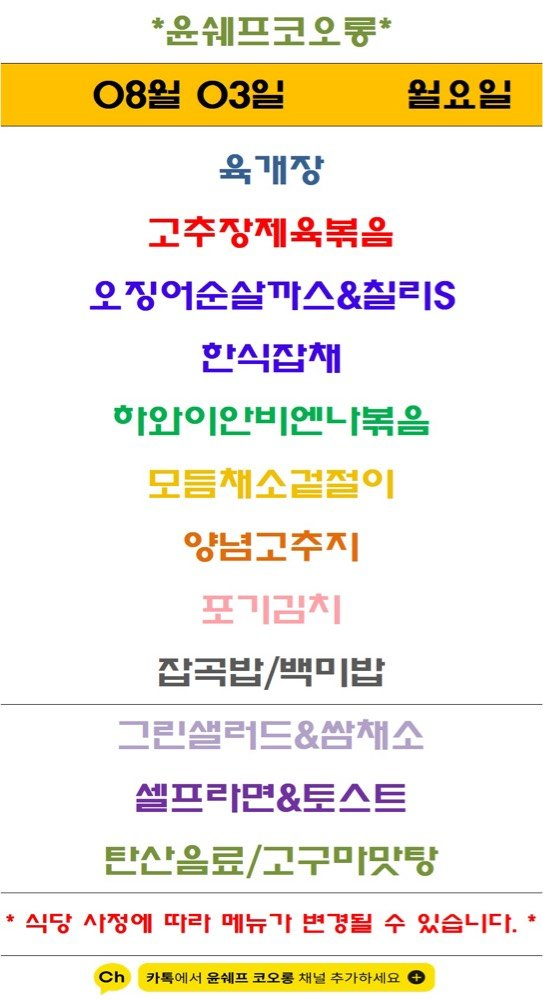
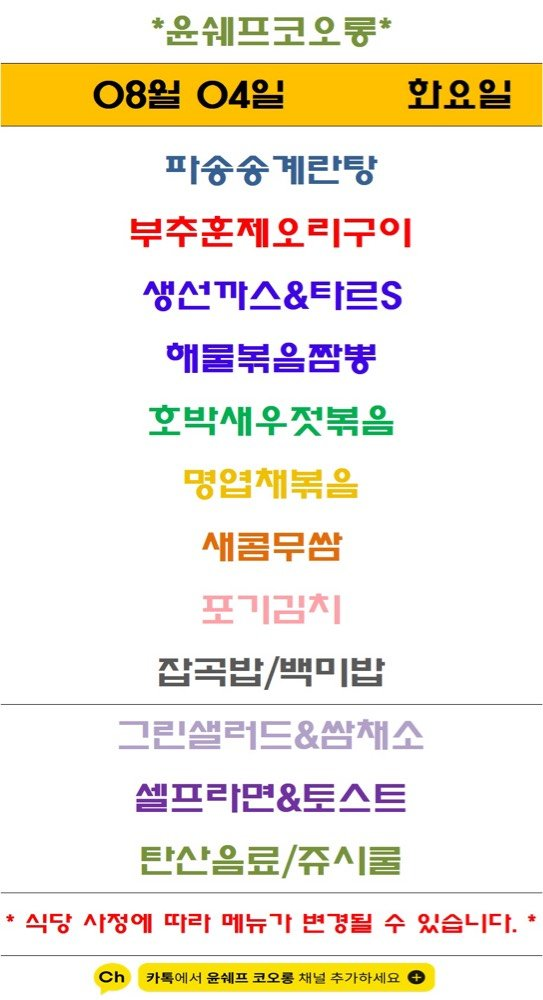
Update menu board assets

diff --git a/menu-today/index.html b/menu-today/index.html
@@ -209,7 +209,7 @@
 
     <section class="meta-bar">
       <div class="meta-card"><div class="meta-label">기준 날짜</div><div class="meta-value">2026년 8월 4일 화요일</div></div>
-      <div class="meta-card"><div class="meta-label">최종 가져온 시간</div><div class="meta-value">2026-08-04 09:03:29</div></div>
+      <div class="meta-card"><div class="meta-label">최종 가져온 시간</div><div class="meta-value">2026-08-04 09:13:03</div></div>
       <div class="meta-card"><div class="meta-label">확인 완료</div><div class="meta-value">9개 식당</div></div>
       <div class="meta-card"><div class="meta-label">준비중</div><div class="meta-value">3개 채널</div></div>
     </section>
@@ -265,7 +265,7 @@
             <div class="sub">가산비즈니스센터</div>
           </div>
         </div>
-        <div class="menu-inline-image"><img src="./images/raonfood.png" alt="구내식당라온푸드 식단 이미지"></div><ul><li>황태해잠국</li><li>단호박닭볶음탐</li><li>생선까스 / 타르타르</li><li>첨포묵김가루무침</li><li>콩나물무침</li><li>방물토마토 &amp; 꿀떡꿀떡</li><li>샐러드 &amp; 드레싱</li><li>황태해장국</li><li>단호</li></ul>
+        <div class="menu-inline-image"><img src="./images/raonfood.png" alt="구내식당라온푸드 식단 이미지"></div><ul><li>황태해잠국</li><li>단호박닭볶음탐</li><li>생선까스 / 타르타르S</li><li>첨포묵김가루무침</li><li>콩나물무침</li><li>방물토마토 &amp; 꿀떡꿀떡</li><li>샐러드 &amp; 드레싱</li><li>황태해장국</li><li>단호</li></ul>
       </article>
 
       <article class="restaurant-card">
@@ -295,7 +295,7 @@
             <div class="sub">에이스테크노타워10차</div>
           </div>
         </div>
-        <div class="menu-inline-image"><img src="./images/thefoodsketch.png" alt="더푸드스케치 식단 이미지"></div><ul><li>근대된장국</li><li>감자전</li><li>골뱅이소면</li><li>= 햄옥수수볶음</li><li>A 유자청연근조림</li><li>Lu 고들빼기</li><li>가든샐러드 / 드레싱</li><li>일배기겉절이 / 음료</li><li>디보으디</li><li>감사선</li></ul>
+        <div class="menu-inline-image"><img src="./images/thefoodsketch.png" alt="더푸드스케치 식단 이미지"></div><ul><li>근대된장국</li><li>감자전</li><li>골뱅이소면</li><li>= 햄옥수수볶음</li><li>A 유자청연근조림</li><li>Lu 고들빼기</li><li>가든샐러드 &amp; 드레싱</li><li>일배기겉절이 / 음료</li><li>디보으디</li><li>감사선</li></ul>
       </article>
 
       <article class="restaurant-card">

diff --git a/guro-menu/index.html b/guro-menu/index.html
@@ -32,7 +32,7 @@
   </header>
   <section class="meta">
     <div><small>기준 날짜</small><strong>2026년 8월 4일 화요일</strong></div>
-    <div><small>최종 갱신</small><strong>2026-08-04 09:03:43</strong></div>
+    <div><small>최종 갱신</small><strong>2026-08-04 09:13:13</strong></div>
     <div><small>등록 식당</small><strong>5개</strong></div>
   </section>
   <div class="notice">공개 카카오 채널의 메뉴 이미지를 자동 수집하고 OCR로 정리합니다. 텍스트에 오타가 있을 수 있으니 식단 이미지를 함께 확인해 주세요.</div>
@@ -104,7 +104,7 @@
         </div>
         <img class="menu-image" src="./images/yoon-chef-kolon.png" alt="윤쉐프 코오롱 식단 이미지" loading="lazy">
         <p class="message">최신 공개 식단 이미지의 텍스트입니다. 날짜는 원본 이미지를 확인해 주세요.</p>
-        <ul><li>육개장</li><li>고추장제육볶음</li><li>오징어순살까스&amp;질리6</li><li>한식잡채</li><li>하완이안비엔나복을</li><li>양념고주지</li><li>잡곡밥/백미밥</li><li>그린샐러드&amp;쌈채소</li><li>셀프라면&amp;토스트</li><li>탄산음료/고구미맛탕</li></ul>
+        <ul><li>08월 O42: 한요일</li><li>파송송계란탕</li><li>부주훈제오리구이</li><li>생선까쓰&amp;타르6</li><li>새콤무쌈</li><li>잡곡밥/백미밥</li><li>그린샐러드&amp;쌈채소</li><li>셀프라면&amp;토스트</li><li>탄산옴료/쥬시룰</li></ul>
       </article>
   </section>
   <section class="seo" aria-label="검색 정보">한신IT타워 구내식당 자연푸드 구내식당 더이츠푸드 벽산더이룸 윤쉐프 코오롱 한신IT타워 벽산디지털밸리7차 대륭포스트타워1차 벽산디지털밸리1차 코오롱싸이언스밸리1차 서울 구로구 디지털로 272 한신IT타워 지하1층 서울 구로구 디지털로33길 50 벽산디지털밸리7차 지하1층 서울 구로구 디지털로 288 대륭포스트타워1차 지하1층 서울 구로구 디지털로27길 24 벽산디지털밸리1차 지하1층 서울 구로구 디지털로34길 43 코오롱싸이언스밸리1차 지하1층</section>
